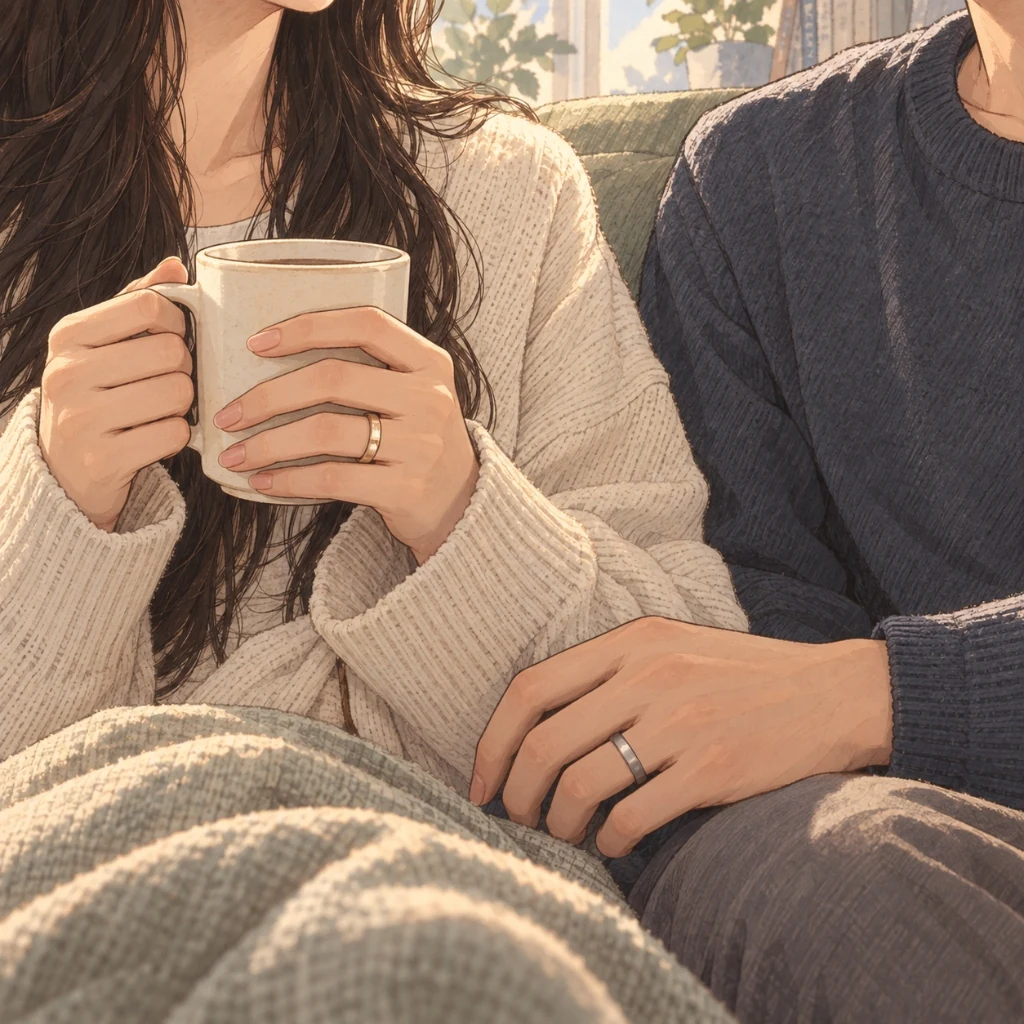
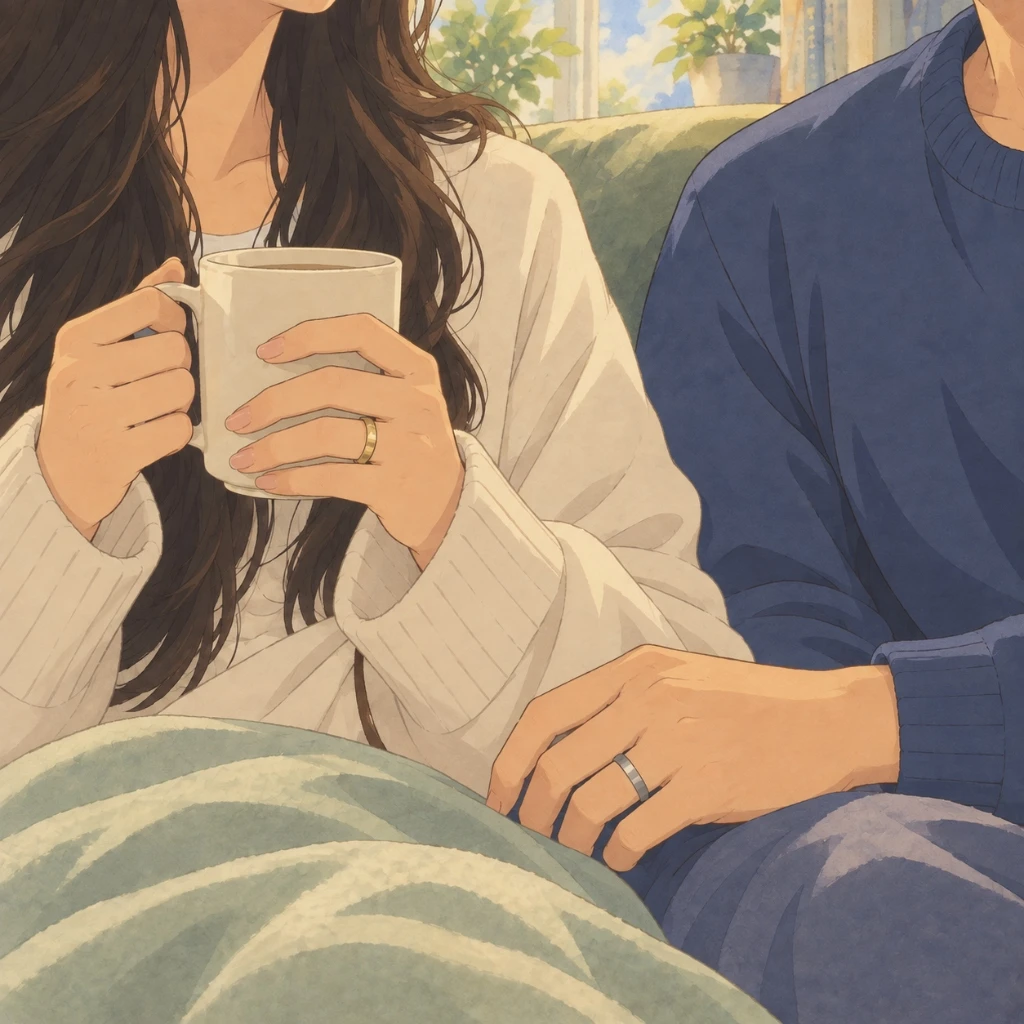
feat(assets): replace story, morning, and rhythm images with retouched ring illustrations

diff --git a/teaser4.html b/teaser4.html
@@ -3092,7 +3092,7 @@
 
               <!-- Large Cinematic Sleep Frame -->
               <div class="cinematic-frame">
-                <img class="cinematic-img" src="/assets/couple-morning-v6.webp" alt="${t('포근한 아침을 함께 맞이하는 커플', '穏やかな朝を一緒に迎えるカップル')}">
+                <img class="cinematic-img" src="/assets/couple-morning-v6.webp?v=20260923_2" alt="${t('포근한 아침을 함께 맞이하는 커플', '穏やかな朝を一緒に迎えるカップル')}">
                 <div class="cinematic-overlay-gradient"></div>
 
                 <div class="sleep-overlay-card">
@@ -3305,7 +3305,7 @@
               <div class="story-slider-track" id="storySliderTrack">
                 <!-- Card 1 -->
                 <div class="story-slide-card" data-index="0">
-                  <img class="story-card-bg" src="/assets/story-moment-rain.webp" alt="${t('비 내리는 밤 손을 맞잡은 커플', '雨の夜、手を繋ぐカップル')}">
+                  <img class="story-card-bg" src="/assets/story-moment-rain.webp?v=20260923_2" alt="${t('비 내리는 밤 손을 맞잡은 커플', '雨の夜、手を繋ぐカップル')}">
                   <div class="story-card-gradient"></div>
                   <div class="story-card-content">
                     <div class="story-tag red">${t('심박의 순간', '鼓動の瞬間')}</div>
@@ -3316,7 +3316,7 @@
 
                 <!-- Card 2 -->
                 <div class="story-slide-card" data-index="1">
-                  <img class="story-card-bg" src="/assets/story-moment-morning.webp" alt="${t('아침의 따뜻한 커피', '朝のあたたかいコーヒー')}">
+                  <img class="story-card-bg" src="/assets/story-moment-morning.webp?v=20260923_2" alt="${t('아침의 따뜻한 커피', '朝のあたたかいコーヒー')}">
                   <div class="story-card-gradient"></div>
                   <div class="story-card-content">
                     <div class="story-tag">${t('수면의 기록', '睡眠の記録')}</div>
@@ -3327,7 +3327,7 @@
 
                 <!-- Card 3 -->
                 <div class="story-slide-card" data-index="2">
-                  <img class="story-card-bg" src="/assets/story-moment-calendar.webp" alt="${t('캘린더에 기념일을 기록하는 순간', 'カレンダーに記念日を記す瞬間')}">
+                  <img class="story-card-bg" src="/assets/story-moment-calendar.webp?v=20260923_2" alt="${t('캘린더에 기념일을 기록하는 순간', 'カレンダーに記念日を記す瞬間')}">
                   <div class="story-card-gradient"></div>
                   <div class="story-card-content">
                     <div class="story-tag red">${t('둘만의 아카이브', 'ふたりのアーカイブ')}</div>
@@ -3362,7 +3362,7 @@
                 <!-- Left: Sunset Linked Hands Photo Card -->
                 <div class="rhythm-left-col">
                   <div class="rhythm-photo-card">
-                    <img src="/assets/couple-sunset-hands.webp" alt="${t('노을 아래 손을 맞잡은 커플', '夕暮れの下、手を繋ぐカップル')}" class="rhythm-photo-img" style="object-position: center 54%;">
+                    <img src="/assets/couple-sunset-hands.webp?v=20260923_2" alt="${t('노을 아래 손을 맞잡은 커플', '夕暮れの下、手を繋ぐカップル')}" class="rhythm-photo-img" style="object-position: center 54%;">
                   </div>
                 </div>
 
